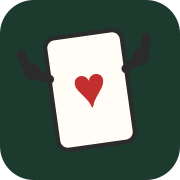
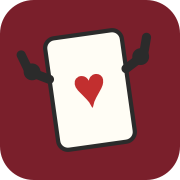
UI-Redesign: Herzkönigin-Rot statt Casino-Grün
- Neue Palette: Oxblood-Hintergrund, Creme-Karten, Tinte, Gold nur
  als sparsamer Akzent (Score, letzte Timer-Minute)
- Regeln als immer sichtbare Regelkarte formatiert (Farben-Grid +
  Werteliste) statt eingeklapptem <details>
- Unterer Eck-Index exakt als 180°-Spiegelung der oberen Ecke —
  ragt nicht mehr über die Innenlinie
- Lange Übungsnamen kleiner gesetzt (Kollision mit Eck-Index)
- Kein Service Worker auf localhost (Dev-Cache-Falle), sw v2
- prefers-reduced-motion respektiert, Icons in neuer Farbe

Claude-Session: https://claude.ai/code/session_01E8JkEdwtkPQodCtPJwg5mD

diff --git a/style.css b/style.css
@@ -1,12 +1,13 @@
 * { margin: 0; padding: 0; box-sizing: border-box; }
 
 :root {
-  --felt: #1d3a2f;
-  --felt-light: #2a5343;
-  --card: #fffdf5;
-  --ink: #2b2b2b;
-  --red: #c22f2f;
-  --gold: #d9a441;
+  --bg: #7a1f2b;        /* Oxblood — Herzkönigin */
+  --bg-deep: #5e1620;   /* Vertiefungen */
+  --paper: #faf3e4;     /* Creme-Papier */
+  --card: #fffdf5;      /* helleres Kartenblatt */
+  --ink: #26201c;       /* Tinte */
+  --red: #c22f2f;       /* Spielkarten-Rot */
+  --gold: #e8b64c;      /* Akzent — nur sparsam */
 }
 
 html, body {
@@ -17,8 +18,8 @@ html, body {
 body {
   font-family: -apple-system, BlinkMacSystemFont, "Segoe UI", Roboto, sans-serif;
   background:
-    radial-gradient(circle at 50% 20%, var(--felt-light), var(--felt) 70%);
-  color: var(--card);
+    radial-gradient(circle at 50% 15%, #8d2735, var(--bg) 55%, var(--bg-deep) 100%);
+  color: var(--paper);
   -webkit-tap-highlight-color: transparent;
   user-select: none;
   -webkit-user-select: none;
@@ -43,22 +44,22 @@ h1, h2 {
 
 /* ---------- Home ---------- */
 
-.home-header { text-align: center; margin-bottom: 24px; }
-.home-header h1 { font-size: 3rem; color: var(--gold); text-shadow: 0 2px 0 rgba(0,0,0,.35); }
-.subtitle { opacity: 0.75; margin-top: 4px; }
+.home-header { text-align: center; margin-bottom: 22px; }
+.home-header h1 { font-size: 3rem; color: var(--paper); text-shadow: 0 2px 0 rgba(0,0,0,.3); }
+.subtitle { opacity: 0.8; margin-top: 4px; }
 
-#home-stats { width: 100%; margin-bottom: 28px; }
-.empty { text-align: center; opacity: 0.75; font-style: italic; padding: 24px 0; }
+#home-stats { width: 100%; margin-bottom: 24px; }
+.empty { text-align: center; opacity: 0.85; font-style: italic; padding: 20px 0; }
 
 .stat-tiles {
   display: grid;
   grid-template-columns: repeat(3, 1fr);
   gap: 10px;
-  margin-bottom: 14px;
+  margin-bottom: 12px;
 }
 .tile {
-  background: rgba(255, 253, 245, 0.08);
-  border: 1px solid rgba(255, 253, 245, 0.18);
+  background: var(--bg-deep);
+  border: 1px solid rgba(250, 243, 228, 0.22);
   border-radius: 12px;
   padding: 12px 6px;
   text-align: center;
@@ -66,13 +67,13 @@ h1, h2 {
   flex-direction: column;
   gap: 4px;
 }
-.tile strong { font-size: 1.3rem; color: var(--gold); }
-.tile span { font-size: 0.72rem; opacity: 0.75; }
+.tile strong { font-size: 1.3rem; color: var(--paper); }
+.tile span { font-size: 0.72rem; opacity: 0.7; }
 
 .reps-list {
   list-style: none;
-  background: rgba(255, 253, 245, 0.08);
-  border: 1px solid rgba(255, 253, 245, 0.18);
+  background: var(--bg-deep);
+  border: 1px solid rgba(250, 243, 228, 0.22);
   border-radius: 12px;
   padding: 6px 16px;
   width: 100%;
@@ -81,38 +82,81 @@ h1, h2 {
   display: flex;
   justify-content: space-between;
   padding: 8px 0;
-  border-bottom: 1px solid rgba(255, 253, 245, 0.12);
+  border-bottom: 1px solid rgba(250, 243, 228, 0.15);
 }
 .reps-list li:last-child { border-bottom: none; }
-.reps-list strong { color: var(--gold); }
+.reps-list strong { color: var(--paper); }
 
+/* Buttons wie aufgelegte Spielkarten */
 .btn-primary {
   font-size: 1.25rem;
   font-weight: 700;
-  color: var(--ink);
-  background: linear-gradient(180deg, #f0d693, var(--gold));
-  border: none;
-  border-radius: 16px;
+  color: var(--red);
+  background: var(--card);
+  border: 2px solid var(--ink);
+  border-radius: 14px;
   padding: 18px 44px;
   cursor: pointer;
-  box-shadow: 0 4px 0 #a3762a, 0 8px 18px rgba(0,0,0,.35);
-  margin-bottom: 28px;
+  box-shadow: 0 5px 0 var(--ink), 0 10px 18px rgba(0, 0, 0, 0.35);
+  margin-bottom: 26px;
 }
-.btn-primary:active { transform: translateY(3px); box-shadow: 0 1px 0 #a3762a; }
+.btn-primary:active { transform: translateY(4px); box-shadow: 0 1px 0 var(--ink); }
 
 .btn-ghost {
   background: none;
   border: none;
-  color: rgba(255, 253, 245, 0.5);
+  color: rgba(250, 243, 228, 0.55);
   font-size: 0.9rem;
   padding: 12px 20px;
   cursor: pointer;
   text-decoration: underline;
 }
 
-.rules { width: 100%; opacity: 0.85; font-size: 0.9rem; }
-.rules summary { cursor: pointer; padding: 8px 0; color: var(--gold); }
-.rules ul { list-style: none; padding: 8px 4px; line-height: 1.9; }
+/* ---------- Regelkarte ---------- */
+
+.rules {
+  width: 100%;
+  background: var(--card);
+  color: var(--ink);
+  border: 2px solid var(--ink);
+  border-radius: 14px;
+  padding: 16px 18px 14px;
+  box-shadow: 0 4px 0 rgba(0, 0, 0, 0.25);
+}
+.rules h3 {
+  font-family: Georgia, serif;
+  font-style: italic;
+  font-weight: 600;
+  font-size: 1.05rem;
+  text-align: center;
+  color: var(--red);
+  margin-bottom: 10px;
+}
+.rules-suits {
+  list-style: none;
+  display: grid;
+  grid-template-columns: 1fr 1fr;
+  gap: 6px 14px;
+  margin-bottom: 10px;
+}
+.rules-suits li {
+  display: flex;
+  align-items: center;
+  gap: 8px;
+  font-size: 0.95rem;
+}
+.rules-suits .suit { font-size: 1.25rem; width: 1.3em; text-align: center; }
+.suit.red { color: var(--red); }
+.suit.black { color: var(--ink); }
+
+.rules-values {
+  border-top: 1px solid rgba(38, 32, 28, 0.2);
+  padding-top: 9px;
+  font-size: 0.88rem;
+  text-align: center;
+  line-height: 1.7;
+}
+.rules-values strong { color: var(--red); }
 
 /* ---------- Countdown ---------- */
 
@@ -126,7 +170,7 @@ h1, h2 {
   border: 3px solid var(--ink);
   border-radius: 12px;
   background-image: repeating-linear-gradient(45deg,
-    rgba(194, 47, 47, 0.25) 0 8px, transparent 8px 16px);
+    rgba(194, 47, 47, 0.3) 0 8px, transparent 8px 16px);
 }
 .c1 { animation: shuf1 0.9s ease-in-out infinite; }
 .c2 { animation: shuf2 0.9s ease-in-out infinite; }
@@ -145,12 +189,17 @@ h1, h2 {
   50%      { transform: translateX(56px) rotate(15deg); z-index: 3; }
 }
 
+@media (prefers-reduced-motion: reduce) {
+  .c1, .c2, .c3 { animation: none; }
+  #card-area { animation: none; }
+}
+
 #countdown-text {
   font-family: Georgia, serif;
   font-style: italic;
   font-size: 4rem;
-  color: var(--gold);
-  text-shadow: 0 2px 0 rgba(0,0,0,.35);
+  color: var(--paper);
+  text-shadow: 0 2px 0 rgba(0,0,0,.3);
   min-height: 1.2em;
 }
 
@@ -166,14 +215,14 @@ h1, h2 {
   font-variant-numeric: tabular-nums;
   line-height: 1.05;
 }
-#timer.urgent { color: #ff7b6b; }
+#timer.urgent { color: var(--gold); }
 
 #progress { opacity: 0.8; font-size: 1rem; margin-top: 2px; }
 
 #card-area {
   width: min(78vw, 300px, 46dvh);
   cursor: pointer;
-  filter: drop-shadow(0 10px 22px rgba(0, 0, 0, 0.45));
+  filter: drop-shadow(0 12px 22px rgba(0, 0, 0, 0.45));
   animation: deal 0.25s ease-out;
 }
 #card-area svg { display: block; width: 100%; height: auto; }
@@ -186,7 +235,7 @@ h1, h2 {
 /* ---------- Ergebnis ---------- */
 
 #screen-result { justify-content: center; gap: 22px; }
-#screen-result h2 { font-size: 2.6rem; color: var(--gold); }
+#screen-result h2 { font-size: 2.6rem; color: var(--paper); }
 
 #result-stats { width: 100%; display: flex; flex-direction: column; gap: 16px; }
 
@@ -197,6 +246,6 @@ h1, h2 {
   gap: 4px;
 }
 .score strong { font-size: 4rem; color: var(--gold); line-height: 1; }
-.score span { opacity: 0.8; }
+.score span { opacity: 0.85; }
 
-.total-reps { text-align: center; opacity: 0.8; }
+.total-reps { text-align: center; opacity: 0.85; }

diff --git a/app.js b/app.js
@@ -254,7 +254,8 @@ function cardSVG(card) {
   const suit = SUITS[card.suit];
   const task = taskFor(card);
   const color = suit.red ? '#c22f2f' : '#2b2b2b';
-  const corner = `${card.value}${suit.sym}`;
+  const name = EXERCISES[task.exercise];
+  const nameSize = name.length > 10 ? 21 : 26;   // lange Namen müssen die Eck-Indizes freihalten
   return `
   <svg viewBox="0 0 240 336" xmlns="http://www.w3.org/2000/svg" role="img"
        aria-label="${task.reps} ${EXERCISES[task.exercise]}">
@@ -262,13 +263,13 @@ function cardSVG(card) {
     <rect x="14" y="14" width="212" height="308" rx="10" fill="none" stroke="${color}" stroke-width="1.5" opacity="0.35"/>
     <text x="26" y="46" font-size="30" font-weight="bold" fill="${color}" text-anchor="middle">${card.value}</text>
     <text x="26" y="74" font-size="26" fill="${color}" text-anchor="middle">${suit.sym}</text>
-    <g transform="rotate(180 214 290)">
-      <text x="214" y="272" font-size="30" font-weight="bold" fill="${color}" text-anchor="middle">${card.value}</text>
-      <text x="214" y="300" font-size="26" fill="${color}" text-anchor="middle">${suit.sym}</text>
+    <g transform="rotate(180 120 168)">
+      <text x="26" y="46" font-size="30" font-weight="bold" fill="${color}" text-anchor="middle">${card.value}</text>
+      <text x="26" y="74" font-size="26" fill="${color}" text-anchor="middle">${suit.sym}</text>
     </g>
     <g transform="translate(50 60)">${FIGURES[task.exercise](suit.sym, color)}</g>
     <text x="120" y="238" text-anchor="middle" font-size="52" font-weight="bold" fill="#2b2b2b">${task.reps}&#8202;&#215;</text>
-    <text x="120" y="278" text-anchor="middle" font-size="26" font-weight="600" fill="${color}">${EXERCISES[task.exercise]}</text>
+    <text x="120" y="278" text-anchor="middle" font-size="${nameSize}" font-weight="600" fill="${color}">${name}</text>
   </svg>`;
 }
 
@@ -468,6 +469,7 @@ if (saved && Date.now() < saved.endsAt) {
   renderHome();
 }
 
-if ('serviceWorker' in navigator) {
+// Kein Service Worker beim lokalen Entwickeln — der Cache würde jede Änderung verschlucken
+if ('serviceWorker' in navigator && location.hostname !== 'localhost') {
   navigator.serviceWorker.register('sw.js').catch(() => {});
 }

diff --git a/index.html b/index.html
@@ -5,7 +5,7 @@
   <meta name="viewport" content="width=device-width, initial-scale=1, viewport-fit=cover, user-scalable=no">
   <title>MySkat — Skat-AMRAP</title>
   <meta name="description" content="Skat-AMRAP-Timer für die August-Challenge: 32 Karten, 10 Minuten, Bodyweight.">
-  <meta name="theme-color" content="#1d3a2f">
+  <meta name="theme-color" content="#7a1f2b">
   <link rel="manifest" href="manifest.webmanifest">
   <link rel="icon" href="icon.svg" type="image/svg+xml">
   <link rel="apple-touch-icon" href="apple-touch-icon.png">
@@ -24,18 +24,20 @@
 
     <button id="btn-start" class="btn-primary">Workout starten</button>
 
-    <details class="rules">
-      <summary>Die Regeln</summary>
-      <ul>
-        <li>♥ Herz = Push-Ups</li>
-        <li>♦ Karo = Jumping Jacks</li>
-        <li>♠ Pik = Crunches</li>
-        <li>♣ Kreuz = Air Squats</li>
-        <li>Bube = 15 Burpees (egal welche Farbe)</li>
-        <li>7–10 = Zahl &middot; Dame = 12 &middot; König = 13 &middot; Ass = 1</li>
-        <li>10 Minuten, so viele Karten wie möglich.</li>
+    <div class="rules">
+      <h3>Die Regeln</h3>
+      <ul class="rules-suits">
+        <li><span class="suit red">♥</span> Push-Ups</li>
+        <li><span class="suit red">♦</span> Jumping Jacks</li>
+        <li><span class="suit black">♠</span> Crunches</li>
+        <li><span class="suit black">♣</span> Air Squats</li>
       </ul>
-    </details>
+      <p class="rules-values">
+        <strong>Bube = 15 Burpees</strong> — egal welche Farbe<br>
+        7–10 = Zahl &middot; Dame = 12 &middot; König = 13 &middot; Ass = 1<br>
+        10 Minuten. So viele Karten wie möglich.
+      </p>
+    </div>
   </section>
 
   <!-- Countdown: Misch-Animation + 3-2-1 -->

diff --git a/sw.js b/sw.js
@@ -1,7 +1,7 @@
 'use strict';
 
 // Beim Deploy hochzählen, sonst hängt die alte Version im Cache (siehe CLAUDE.md)
-const VERSION = 'myskat-v1';
+const VERSION = 'myskat-v2';
 
 const ASSETS = [
   '.',
